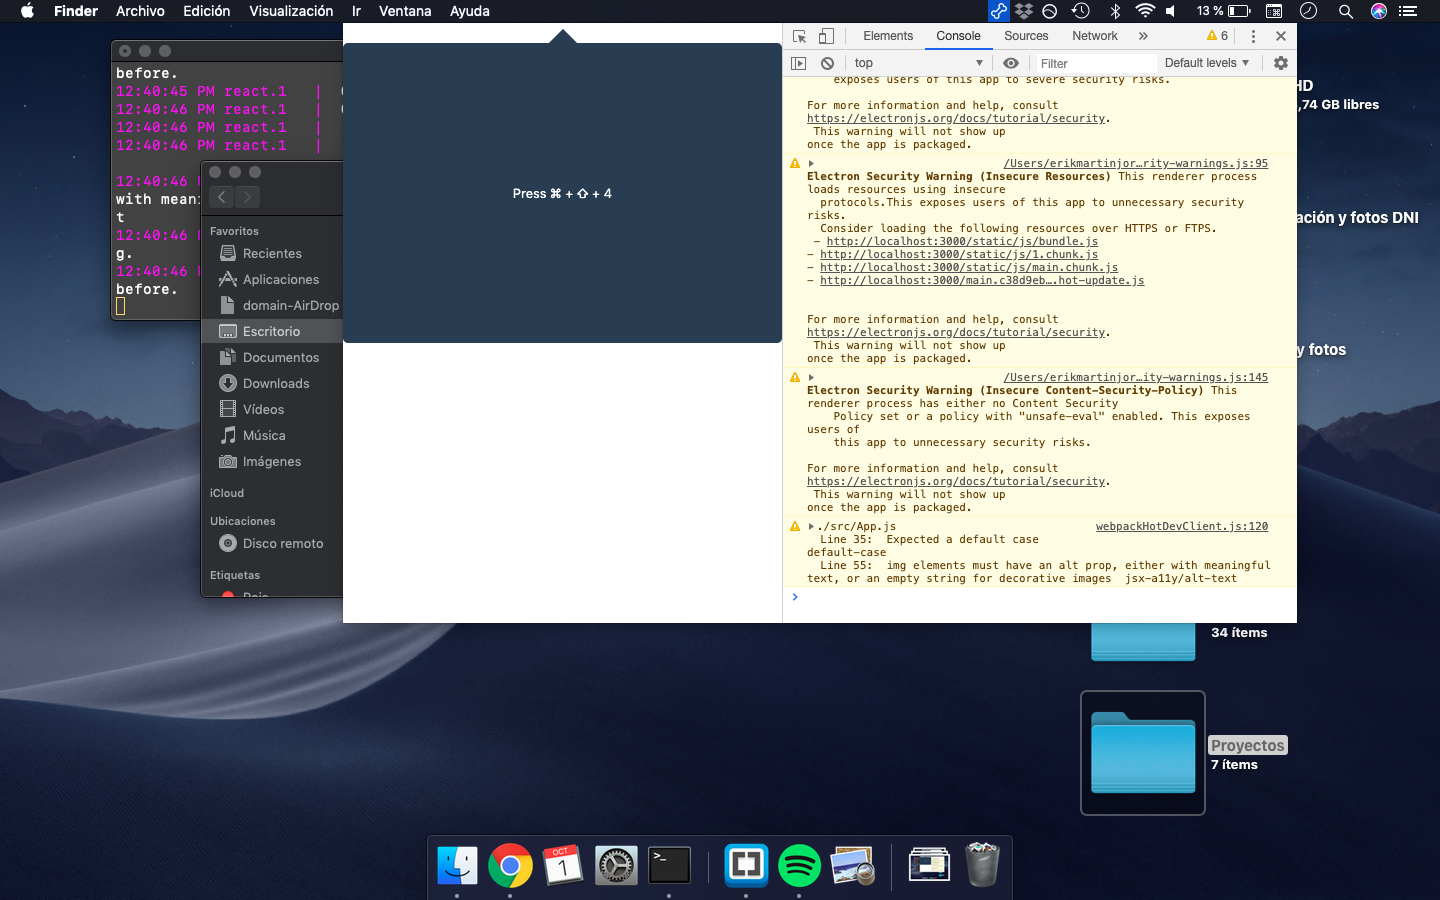
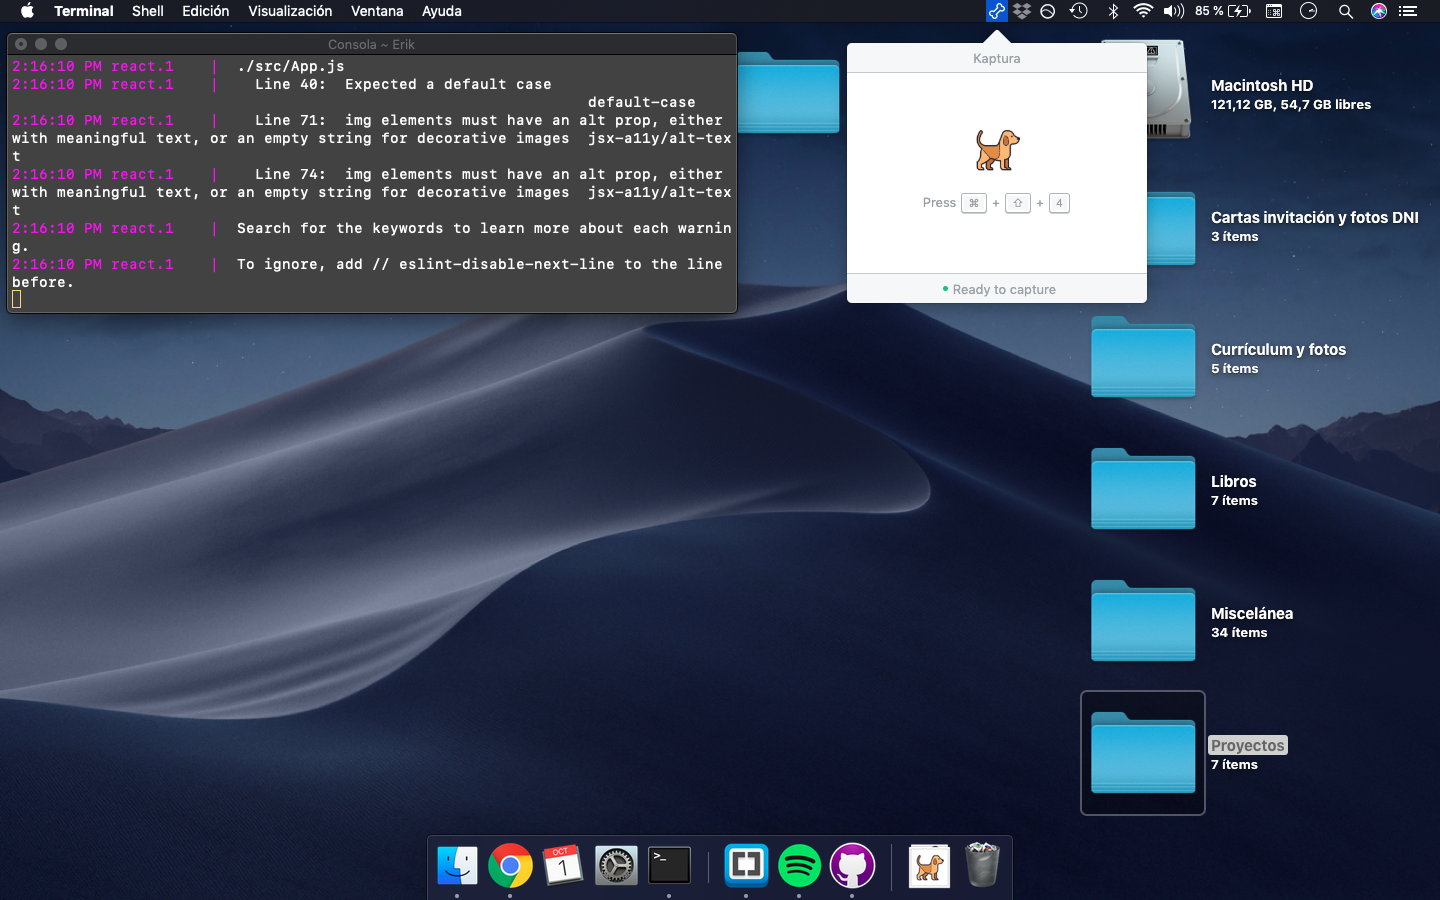
Moving forward

diff --git a/src/App.js b/src/App.js
@@ -1,4 +1,5 @@
 import React, { useEffect, useState } from 'react';
+import mainLogo from'./mainLogo.png';
 import firebase from 'firebase';
 import './App.css';
 
@@ -18,7 +19,9 @@ firebase.initializeApp(config);
 function App() {
     
     const [imgURL, setImgURL] = useState(null);
-    
+    const [status, setStatus] = useState('Green');
+    const [statusMessage, setStatusMessage] = useState('Ready to capture') 
+        
     useEffect( () => {
         
         window.ipcRenderer.on('ping', (event, message) => { 
@@ -31,18 +34,26 @@ function App() {
                 // Observe state change events such as progress, pause, and resume
                 // Get task progress, including the number of bytes uploaded and the total number of bytes to be uploaded
                 var progress = (snapshot.bytesTransferred / snapshot.totalBytes) * 100;
-                console.log('Upload is ' + progress + '% done');
+                
+                setStatus('Yellow');
+                
                 switch (snapshot.state) {
                     case firebase.storage.TaskState.PAUSED: // or 'paused'
-                    console.log('Upload is paused');
+                    setStatusMessage('Upload is paused');
                     break;
                     case firebase.storage.TaskState.RUNNING: // or 'running'
-                    console.log('Upload is running');
+                    setStatusMessage('Upload is running: ' + Math.round(progress) + '% done');
                     break;
                 }
             }, (error) => {
-            // Handle unsuccessful uploads
-            }, () => {task.snapshot.ref.getDownloadURL().then( downloadURL => setImgURL(downloadURL) );
+                // Handle unsuccessful uploads
+                setStatus('Red');
+                setStatusMessage('There was an error. Please, try it again.');
+            }, () => {
+                
+                task.snapshot.ref.getDownloadURL().then( downloadURL => setImgURL(downloadURL) );
+                setStatus('Green');
+                setStatusMessage('Ready to capture');
             });
         });    
         
@@ -51,11 +62,23 @@ function App() {
     return (
     <div className = 'App'>
         <div className = 'Header-Arrow'></div>
+        <div className = 'Header'>
+            <div className = 'Title'>Kaptura</div>
+        </div>
         <div className = 'Box'>
         { imgURL 
-            ? <img src = {imgURL}></img>
-            : <p>Press <kbd>⌘</kbd> + ⇧ + 4</p>
+            ? <div className = 'Completed'>
+                <img src = {imgURL}></img>
+              </div>
+            : <div className = 'Waiting'>
+                <img src = {mainLogo}></img>
+                <p>Press <kbd>⌘</kbd> + <kbd>⇧</kbd> + <kbd>4</kbd></p>
+             </div>
         }
+        </div>
+        <div className = 'Footer'>
+            <div className = {'Color ' + status}></div>
+            <p>{statusMessage}</p>
         </div>
     </div>
     );

diff --git a/src/App.css b/src/App.css
@@ -7,26 +7,74 @@
     height: 100%;
     width: 100%;
 }
+.Header,
+.Footer{
+    align-items: center;
+    background: #f6f7f8;
+    border-bottom: 1px solid #c5c9ce;
+    border-radius: 5px 5px 0px 0px;
+    display: flex; 
+    height: 30px;
+    font-size: small;
+    justify-content: center;
+    padding: 10px;
+    width: 100%;
+    z-index: 1;
+}
+.Footer{
+    border-bottom: 0px;
+    border-radius: 0px 0px 5px 5px;
+    border-top: 1px solid #c5c9ce;
+}
 .Header-Arrow {
+    background-color: #f6f7f8;
+    border-radius: 3px 0px 0px 0px;
     height: 20px;
     margin-bottom: -10px;
     margin-top: 10px;
     width: 20px;
     transform: rotate(45deg);
-    background-color: #2c3e50; 
 }
 .Box{
     align-items: center;
-    background-color: #2c3e50; 
-    border-radius: 5px;
-    color: white;
+    background-color: white; 
     display: flex;
-    height: 300px;
+    height: 200px;
     justify-content: center;
     padding: 20px;
     width: 100%;
 }
+.Box .Waiting{
+    align-items: center;
+    display: flex;
+    flex-direction: column;
+    justify-content: center;
+}
+.Box .Waiting img{
+    height: 60px;
+    width: 60px;
+}
+.Box .Completed img{
+    border-radius: 5px;
+    height: 80px;
+    width: 80px;
+}
 .Box p{
     font-size: small;
     text-align: center;
+}
+.Color{
+    border-radius: 50%;
+    height: 5px;
+    margin: 5px;
+    width: 5px;
+}
+.Color.Green{
+    background: #5fba7d;
+}
+.Color.Yellow{
+    background: #ffb347;
+}
+.Color.Red{
+    background: #ff6961;
 }

diff --git a/src/electron-starter.js b/src/electron-starter.js
@@ -50,8 +50,8 @@ const createWindow = () => {
         transparent: true,
         titleBarStyle: 'customButtonsOnHover',
         show: false,
-        width: 600, 
-        height: 600,
+        width: 300, 
+        height: 300,
         webPreferences: {
             nodeIntegration: true,
             preload: __dirname + '/preload.js'
@@ -71,7 +71,7 @@ const createWindow = () => {
     setPosition();
     
     // Open the DevTools.
-    mainWindow.webContents.openDevTools();
+    // mainWindow.webContents.openDevTools();
     
     // Blur window when close o loses focus
     mainWindow.on('blur', () => mainWindow.hide() );
@@ -84,7 +84,6 @@ const createWindow = () => {
         mainWindow = null
     })
     
-    // mainWindow.webContents.on('did-finish-load', () => mainWindow.webContents.send('ping', '¡Suuuuuuuuuuuuuu!'));
 }
 
 const setPosition = () => {

diff --git a/src/index.css b/src/index.css
@@ -4,6 +4,7 @@
 body {
     background: transparent;
     border-radius: 5px;
+    color: #9ba1a6;
     display: flex;
     flex-direction: column;
     margin: 0;
@@ -12,4 +13,18 @@ body {
     font-family: -apple-system, BlinkMacSystemFont, "Segoe UI", "Roboto", "Oxygen",
     "Ubuntu", "Cantarell", "Fira Sans", "Droid Sans", "Helvetica Neue",
     sans-serif;
+}
+kbd{
+    display: inline-block;
+    margin: 0 .1em;
+    padding: .1em .6em;
+    font-family: Arial,"Helvetica Neue",Helvetica,sans-serif;
+    font-size: 11px;
+    line-height: 1.4;
+    text-shadow: 0 1px 0 #FFF;
+    background-color: #f6f7f8;
+    border: 1px solid #adb3b9;
+    border-radius: 3px;
+    box-shadow: 0 1px 0 rgba(12,13,14,0.2), 0 0 0 2px #FFF inset;
+    white-space: nowrap;
 }
